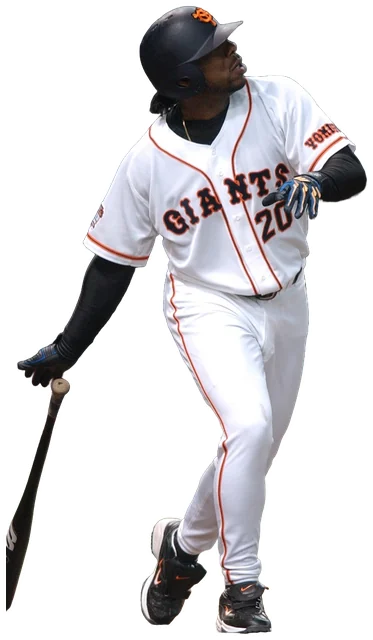
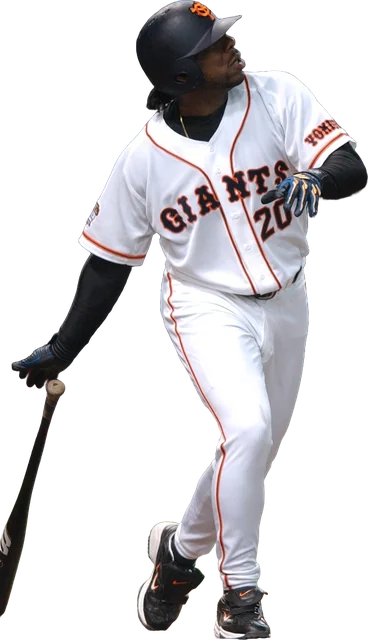
選手写真は背景を抜いただけでそのまま使う (縁取り・光・拡大・シャープをやめる)
- player_photo.py: 白い縁取りを既定でなしに (--outline で付けられる)。小さい写真の拡大とシャープをやめ、大きい写真の縮小だけにする
- カード: 写真には縁取りや光の影を付けずにそのまま描く (3D の選手の絵はこれまでどおり)
- 17 選手の写真を切り抜き直した

Claude-Session: https://claude.ai/code/session_01R5j3tEEtejwrGDjh2qhRdC

diff --git a/pocket_baseball/static/js/photos.js b/pocket_baseball/static/js/photos.js
@@ -1,4 +1,4 @@
 /* 選手写真の切り抜き (tools/player_photo.py で生成。手で直さない) */
 (function (PB) {
-  PB.PHOTOS = {"g":{"6":{"src":"img/players/g_6.webp","w":394,"h":640,"kind":"bat","cut":"t","foot":0.807,"outline":4},"7":{"src":"img/players/g_7.webp","w":322,"h":640,"kind":"bat","cut":"","foot":0.745,"outline":4},"8":{"src":"img/players/g_8.webp","w":537,"h":634,"kind":"bat","cut":"b","foot":0.774,"outline":4},"10":{"src":"img/players/g_10.webp","w":704,"h":640,"kind":"bat","cut":"","foot":0.76,"outline":4},"13":{"src":"img/players/g_13.webp","w":488,"h":640,"kind":"bat","cut":"","foot":0.593,"outline":4},"20":{"src":"img/players/g_20.webp","w":373,"h":640,"kind":"bat","cut":"l","foot":0.508,"outline":4}},"l":{"42":{"src":"img/players/l_42.webp","w":390,"h":640,"kind":"bat","cut":"","foot":0.474,"outline":4}},"s":{"3":{"src":"img/players/s_3.webp","w":870,"h":634,"kind":"bat","cut":"b","foot":0.647,"outline":4}},"t":{"1":{"src":"img/players/t_1.webp","w":339,"h":640,"kind":"bat","cut":"","foot":0.502,"outline":4},"6":{"src":"img/players/t_6.webp","w":433,"h":640,"kind":"bat","cut":"","foot":0.492,"outline":4},"7":{"src":"img/players/t_7.webp","w":375,"h":634,"kind":"bat","cut":"b","foot":0.559,"outline":4},"9":{"src":"img/players/t_9.webp","w":445,"h":640,"kind":"bat","cut":"","foot":0.595,"outline":4},"14":{"src":"img/players/t_14.webp","w":294,"h":640,"kind":"bat","cut":"","foot":0.732,"outline":4},"29":{"src":"img/players/t_29.webp","w":674,"h":640,"kind":"pit","cut":"","foot":0.164,"outline":4},"39":{"src":"img/players/t_39.webp","w":405,"h":640,"kind":"bat","cut":"","foot":0.159,"outline":4},"53":{"src":"img/players/t_53.webp","w":352,"h":640,"kind":"bat","cut":"","foot":0.105,"outline":4}},"yb":{"25":{"src":"img/players/yb_25.webp","w":424,"h":640,"kind":"bat","cut":"t","foot":0.515,"outline":4}}};
+  PB.PHOTOS = {"g":{"6":{"src":"img/players/g_6.webp","w":389,"h":640,"kind":"bat","cut":"t","foot":0.822,"outline":0},"7":{"src":"img/players/g_7.webp","w":263,"h":533,"kind":"bat","cut":"","foot":0.754,"outline":0},"8":{"src":"img/players/g_8.webp","w":437,"h":523,"kind":"bat","cut":"b","foot":0.779,"outline":0},"10":{"src":"img/players/g_10.webp","w":705,"h":640,"kind":"bat","cut":"","foot":0.759,"outline":0},"13":{"src":"img/players/g_13.webp","w":485,"h":640,"kind":"bat","cut":"","foot":0.585,"outline":0},"20":{"src":"img/players/g_20.webp","w":368,"h":640,"kind":"bat","cut":"l","foot":0.521,"outline":0}},"l":{"42":{"src":"img/players/l_42.webp","w":339,"h":563,"kind":"bat","cut":"","foot":0.479,"outline":0}},"s":{"3":{"src":"img/players/s_3.webp","w":874,"h":640,"kind":"bat","cut":"b","foot":0.65,"outline":0}},"t":{"1":{"src":"img/players/t_1.webp","w":298,"h":573,"kind":"bat","cut":"","foot":0.485,"outline":0},"6":{"src":"img/players/t_6.webp","w":429,"h":640,"kind":"bat","cut":"","foot":0.476,"outline":0},"7":{"src":"img/players/t_7.webp","w":275,"h":476,"kind":"bat","cut":"b","foot":0.561,"outline":0},"9":{"src":"img/players/t_9.webp","w":278,"h":403,"kind":"bat","cut":"","foot":0.578,"outline":0},"14":{"src":"img/players/t_14.webp","w":245,"h":545,"kind":"bat","cut":"","foot":0.744,"outline":0},"29":{"src":"img/players/t_29.webp","w":674,"h":640,"kind":"pit","cut":"","foot":0.173,"outline":0},"39":{"src":"img/players/t_39.webp","w":401,"h":640,"kind":"bat","cut":"","foot":0.154,"outline":0},"53":{"src":"img/players/t_53.webp","w":346,"h":640,"kind":"bat","cut":"","foot":0.09,"outline":0}},"yb":{"25":{"src":"img/players/yb_25.webp","w":420,"h":640,"kind":"bat","cut":"t","foot":0.499,"outline":0}}};
 })((window.PB = window.PB || {}));

diff --git a/pocket_baseball/static/js/cards.js b/pocket_baseball/static/js/cards.js
@@ -399,8 +399,8 @@
     // 選手 (白い縁取りと光)
     if (portrait) {
       const meta = portrait._photo || null;
-      // 写真は切り抜きの時に縁取り済み。3D の選手・2 頭身のキャラはここで縁取る
-      const img = meta && meta.outline ? portrait : sticker(portrait, Math.max(2, portrait.height / 150));
+      // 写真は切り抜いたまま使う (縁取り・光などの加工はしない)。3D の選手・2 頭身のキャラは白く縁取る
+      const img = meta ? portrait : sticker(portrait, Math.max(2, portrait.height / 150));
       const pw = img.width;
       const ph = img.height;
       // 膝から上などで写真の下端が切れているときは、カードの下端に合わせる
@@ -413,14 +413,17 @@
       const fx = meta && meta.foot != null ? meta.foot : 0.5;
       const dx = U.clamp(w / 2 - fx * dw, Math.min(0, w - dw), Math.max(0, w - dw));
       const dy = (flush ? h : h * 0.9) - dh;
-      ctx.save();
-      ctx.shadowColor = th.style === "burst" ? "rgba(255,250,230,0.95)" : "rgba(200,245,255,0.95)";
-      ctx.shadowBlur = w * 0.04;
-      ctx.drawImage(img, dx, dy, dw, dh);
-      ctx.shadowColor = "rgba(0,0,0,0.5)";
-      ctx.shadowBlur = w * 0.012;
-      ctx.drawImage(img, dx, dy, dw, dh);
-      ctx.restore();
+      if (meta) ctx.drawImage(img, dx, dy, dw, dh);
+      else {
+        ctx.save();
+        ctx.shadowColor = th.style === "burst" ? "rgba(255,250,230,0.95)" : "rgba(200,245,255,0.95)";
+        ctx.shadowBlur = w * 0.04;
+        ctx.drawImage(img, dx, dy, dw, dh);
+        ctx.shadowColor = "rgba(0,0,0,0.5)";
+        ctx.shadowBlur = w * 0.012;
+        ctx.drawImage(img, dx, dy, dw, dh);
+        ctx.restore();
+      }
     }
     // 下の帯
     let g = ctx.createLinearGradient(0, h * 0.7, 0, h);

diff --git a/pocket_baseball/tools/player_photo.py b/pocket_baseball/tools/player_photo.py
@@ -15,7 +15,7 @@
     erase: 消す範囲 (crop 後の画像に対する比率) の一覧。触れ合っている別の選手 (スライディングした走者など) を消すのに使う。
 
 出力:
-  static/img/players/<球団>_<背番号>.webp  (縦 640px・白い縁取り・余白なし)
+  static/img/players/<球団>_<背番号>.webp  (背景を抜いただけの写真。縦 640px 以下・余白なし。--outline で白い縁取りも付けられる)
   static/js/photos.js                      PB.PHOTOS[球団][背番号] = {src, w, h, kind, cut, foot}
 
 切り抜きは onnxruntime で動かす学習済みモデル (rembg が GitHub で配布している ONNX):
@@ -300,7 +300,7 @@ def decontaminate(rgb, a):
     return np.where(edge[..., None], f, rgb)
 
 
-def cutout(src, model="isnet", height=640, outline=4, pick=None, crop=None, flip=False, erase=None):
+def cutout(src, model="isnet", height=640, outline=0, pick=None, crop=None, flip=False, erase=None):
     img = ImageOps.exif_transpose(Image.open(src)).convert("RGB")
     if crop:
         W, H = img.size
@@ -325,12 +325,11 @@ def cutout(src, model="isnet", height=640, outline=4, pick=None, crop=None, flip
     im = Image.fromarray(rgba, "RGBA")
     if flip:
         im = ImageOps.mirror(im)
-    # 縦 height - 余白 に合わせる (小さすぎる写真は 1.6 倍まで)
-    pad = outline + 2
-    sc = min((height - 2 * pad) / im.height, 1.6)
-    im = im.resize((max(1, round(im.width * sc)), max(1, round(im.height * sc))), Image.LANCZOS)
-    if sc > 1.05:
-        im = im.filter(ImageFilter.UnsharpMask(1.2, 60, 2))
+    # 大きい写真だけ縦 height に縮める (拡大・シャープなどの加工はしない)
+    pad = outline + 2 if outline > 0 else 0
+    sc = min((height - 2 * pad) / im.height, 1.0)
+    if sc < 1.0:
+        im = im.resize((max(1, round(im.width * sc)), max(1, round(im.height * sc))), Image.LANCZOS)
     canvas = Image.new("RGBA", (im.width + 2 * pad, im.height + 2 * pad), (255, 255, 255, 0))
     canvas.alpha_composite(im, (pad, pad))
     if outline > 0:
@@ -342,7 +341,7 @@ def cutout(src, model="isnet", height=640, outline=4, pick=None, crop=None, flip
         base.alpha_composite(canvas)
         canvas = base
     # 写真の端で切れている辺は縁取りなしでまっすぐに (カードの端に当てる)
-    if "b" in cut:
+    if "b" in cut and pad:
         canvas = canvas.crop((0, 0, canvas.width, canvas.height - pad))
     # 足元の位置 (下端付近の不透明画素の中心, 幅に対する比率)
     al = np.asarray(canvas)[..., 3]
@@ -413,7 +412,7 @@ def main():
     ap.add_argument("--only", help="この選手だけ (例: c_43)")
     ap.add_argument("--model", choices=sorted(MODELS), default="isnet", help="isnet: 速い / birefnet: きれい (遅い)")
     ap.add_argument("--height", type=int, default=640)
-    ap.add_argument("--outline", type=int, default=4, help="白い縁取りの太さ px (0 でなし)")
+    ap.add_argument("--outline", type=int, default=0, help="白い縁取りの太さ px (既定 0: 縁取りなし)")
     ap.add_argument("--quality", type=int, default=86)
     ap.add_argument("--sheet", help="確認用の一覧画像 (jpg)")
     ap.add_argument("--dry-run", action="store_true", help="名簿との対応だけ確かめる")

diff --git a/pocket_baseball/README.md b/pocket_baseball/README.md
@@ -14,7 +14,7 @@
 | サクセス | 2月〜7月の24週で選手を育成。練習・休養・イベント・仲間との絆・試合イベント（実際に打席やマウンドに立つ）。完成した選手はチームに登録でき、パスワードで書き出し/読み込みも可能 |
 | ホームラン競争 | 10アウトまでに何本打てるか。飛距離と自己ベストを記録 |
 | 選手名鑑・オーダー | 全選手の能力（S〜Gの8段階・特殊能力）を確認。打順の入れ替え・控えとの交代・先発投手の指名。「守備位置」(グラウンドの図) と「スタメン」(9 枚並び) は選手カードで表示 |
-| 選手カード | 選手の写真 (利用者が用意したものを切り抜き) または 3D の選手を切り抜いた絵 (打者はフォロースルー・投手は投げ終わり・捕手は防具をつけた構え) を白く縁取り、総合ランクに応じた光の背景 (S は金の放射と虹、A は赤い放射、それ以外はスピード線) に重ね、ランクの記章・総合値・背番号・球団マークを入れたカード。選手の詳細・オーダー・今日のホームランのダイジェスト・試合結果の「今日のヒーロー」に登場 |
+| 選手カード | 選手の写真 (利用者が用意したものから背景だけを抜いたもの) または 3D の選手を切り抜いた絵 (打者はフォロースルー・投手は投げ終わり・捕手は防具をつけた構え。白く縁取る) を、総合ランクに応じた光の背景 (S は金の放射と虹、A は赤い放射、それ以外はスピード線) に重ね、ランクの記章・総合値・背番号・球団マークを入れたカード。選手の詳細・オーダー・今日のホームランのダイジェスト・試合結果の「今日のヒーロー」に登場 |
 
 ## 操作（スマホ）
 
@@ -122,7 +122,7 @@ node pocket_baseball/tools/pw_news.js http://127.0.0.1:8765/index.html
 選手カードには、用意した写真から選手だけを切り抜いて使えます (写真がない選手は 3D の選手の絵になります)。
 
 1. `pocket_baseball/photos_in/<球団>/<背番号>.jpg` に写真を置く (例: `photos_in/t/6.jpg`。`<球団>` は `t`・`g` などの球団 id か略称、ファイル名は選手名でもよい)。このフォルダは git に入りません。
-2. `python3 pocket_baseball/tools/player_photo.py --sheet 確認.jpg` を実行すると、`static/img/players/<球団>_<背番号>.webp` (白い縁取りつきの切り抜き) と `static/js/photos.js` ができます。
+2. `python3 pocket_baseball/tools/player_photo.py --sheet 確認.jpg` を実行すると、`static/img/players/<球団>_<背番号>.webp` (背景を抜いただけで、色や形には手を加えない切り抜き) と `static/js/photos.js` ができます。
    - 切り抜きは学習済みモデル (ISNet・Apache-2.0。`--model birefnet` で BiRefNet lite・MIT、遅いが細部に強い) を onnxruntime で動かします。初回だけモデルを取得します (`pip install onnxruntime numpy pillow`)。
    - 別の選手が重なっている写真は `photos_in/overrides.json` で `pick` (残す人の位置)・`erase` (消す範囲)・`crop` を指定します。
 
